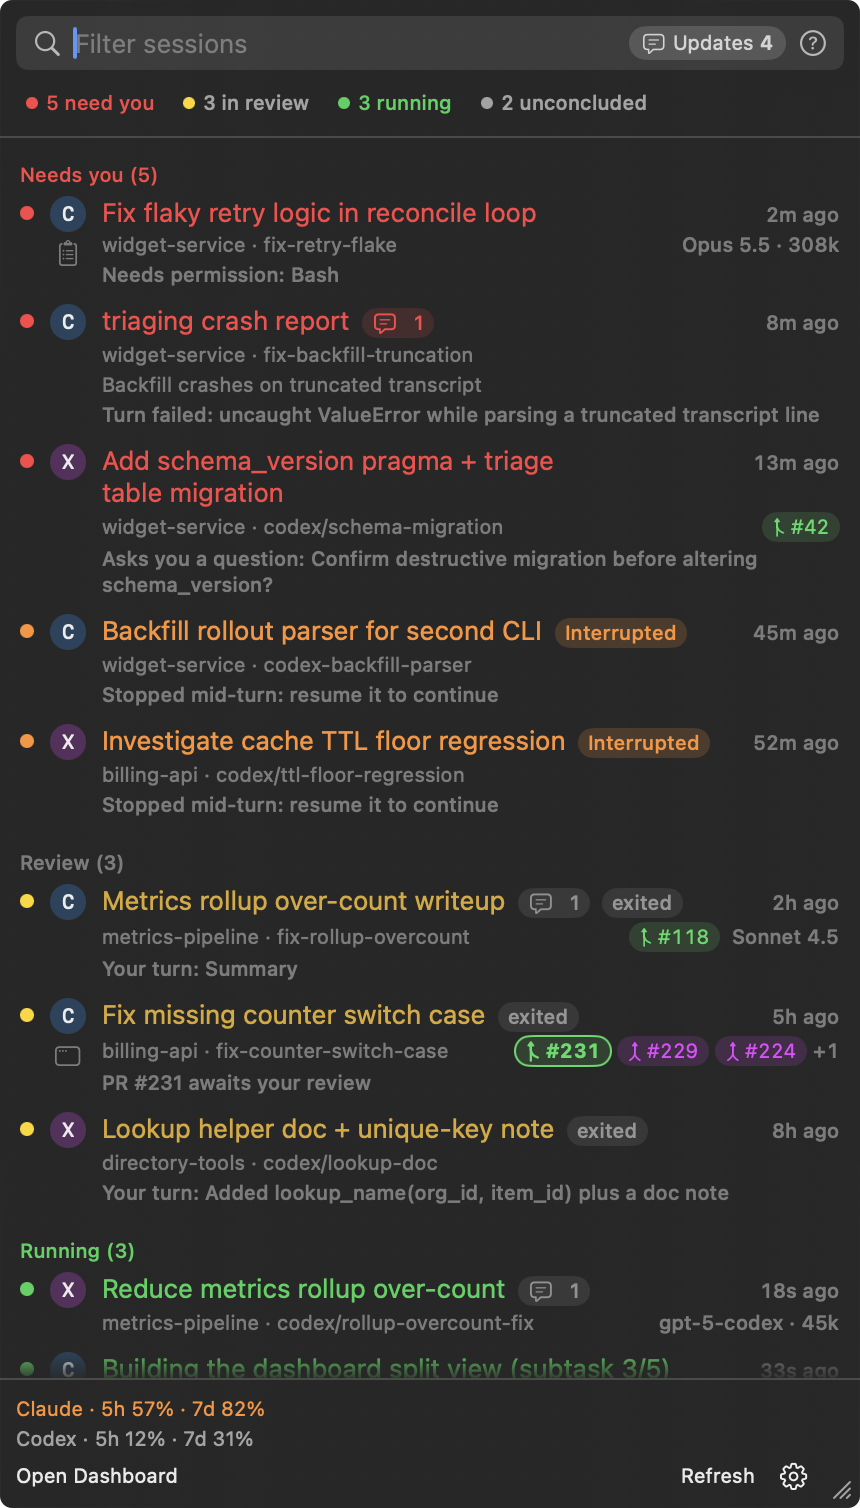
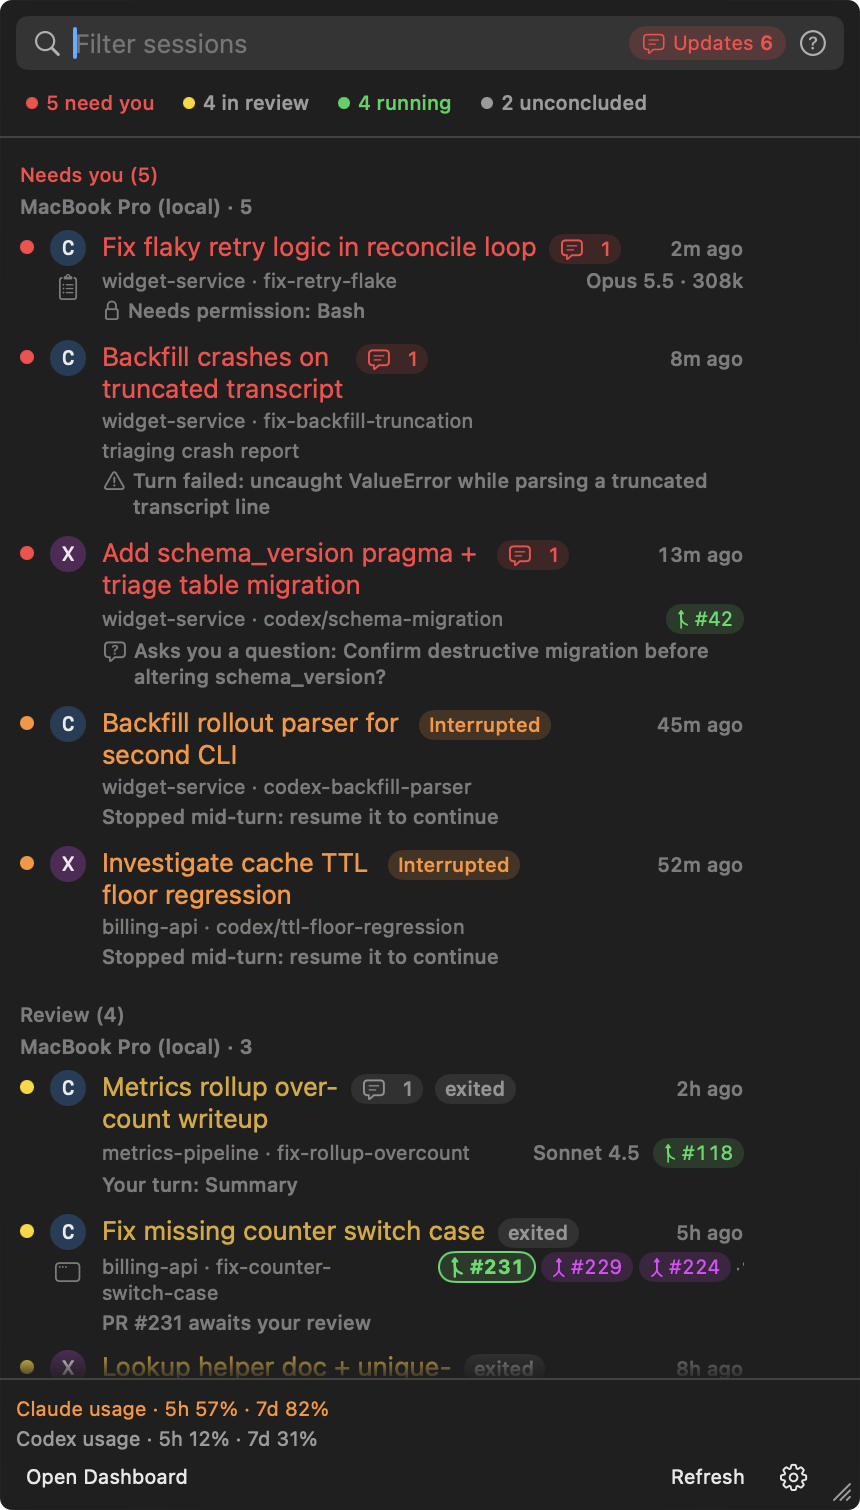
move a popover row's tags under the repo text when they leave it no room; new README popover images
Claude-Session: https://claude.ai/code/session_01KVjE5EzNMnQ54BKG8zNp3J

diff --git a/app/Sources/AgentBoard/Views/SessionRowView.swift b/app/Sources/AgentBoard/Views/SessionRowView.swift
@@ -124,25 +124,56 @@ struct SessionRowView: View {
         }
     }
 
+    @ViewBuilder
     private var repoLine: some View {
+        if compact {
+            // A tight row first drops the Mac's name capsule (the chip in
+            // the icon column still says which Mac); when the tags still
+            // leave the repo text less than a short word's width (a narrow
+            // popover, a model tag and three PRs), they move under it
+            // instead of squeezing it to one letter per line.
+            ViewThatFits(in: .horizontal) {
+                repoLineBeside(minRepoWidth: SessionRowLayout.minRepoWidth, showsMachine: showsMachineName)
+                if showsMachineName && session.isRemote {
+                    repoLineBeside(minRepoWidth: SessionRowLayout.minRepoWidth, showsMachine: false)
+                }
+                VStack(alignment: .trailing, spacing: 2) {
+                    repoText.frame(maxWidth: .infinity, alignment: .leading)
+                    HStack(spacing: 6) { repoTags(showsMachine: false) }
+                }
+            }
+        } else {
+            repoLineBeside(minRepoWidth: nil, showsMachine: showsMachineName)
+        }
+    }
+
+    private func repoLineBeside(minRepoWidth: CGFloat?, showsMachine: Bool) -> some View {
         // First-baseline alignment keeps the trailing tags on the repo's
         // first line when a long branch wraps.
         HStack(alignment: .firstTextBaseline, spacing: 6) {
-            Text(SessionRowLayout.repoText(session))
-                .font(.caption)
-                .foregroundStyle(.secondary)
-                .wrapsInPopover(compact)
+            repoText.frame(minWidth: minRepoWidth, idealWidth: minRepoWidth, alignment: .leading)
             Spacer(minLength: 4)
-            // SessionRowLayout.repoTags order: the PR buttons last, so they
-            // never move with the optional tags.
-            ForEach(SessionRowLayout.repoTags(for: session, showsMachineName: showsMachineName), id: \.self) { tag in
-                switch tag {
-                case .machine: machineTag
-                case .tmux: tmuxTag
-                case .background: backgroundTag
-                case .model: modelTag
-                case .prs: PRLinkButtons(session: session, onOverflow: showDetail)
-                }
+            repoTags(showsMachine: showsMachine)
+        }
+    }
+
+    private var repoText: some View {
+        Text(SessionRowLayout.repoText(session))
+            .font(.caption)
+            .foregroundStyle(.secondary)
+            .wrapsInPopover(compact)
+    }
+
+    /// SessionRowLayout.repoTags order: the PR buttons last, so they never
+    /// move with the optional tags.
+    private func repoTags(showsMachine: Bool) -> some View {
+        ForEach(SessionRowLayout.repoTags(for: session, showsMachineName: showsMachine), id: \.self) { tag in
+            switch tag {
+            case .machine: machineTag
+            case .tmux: tmuxTag
+            case .background: backgroundTag
+            case .model: modelTag
+            case .prs: PRLinkButtons(session: session, onOverflow: showDetail)
             }
         }
     }

diff --git a/app/Sources/AgentBoard/Support/SessionRowLayout.swift b/app/Sources/AgentBoard/Support/SessionRowLayout.swift
@@ -159,6 +159,10 @@ enum SessionRowLayout {
     /// grouped by machine passes `showsMachineName: false`: the sub-header
     /// names the Mac, so the row leaves out its name capsule (the icon
     /// column's chip stays).
+    /// The narrowest the repo text gets beside the repo line's tags in the
+    /// popover; with less room the tags go under it.
+    static let minRepoWidth: CGFloat = 72
+
     static func repoTags(for session: Session, showsMachineName: Bool = true) -> [RepoTag] {
         var tags: [RepoTag] = []
         if session.isRemote && showsMachineName { tags.append(.machine) }
